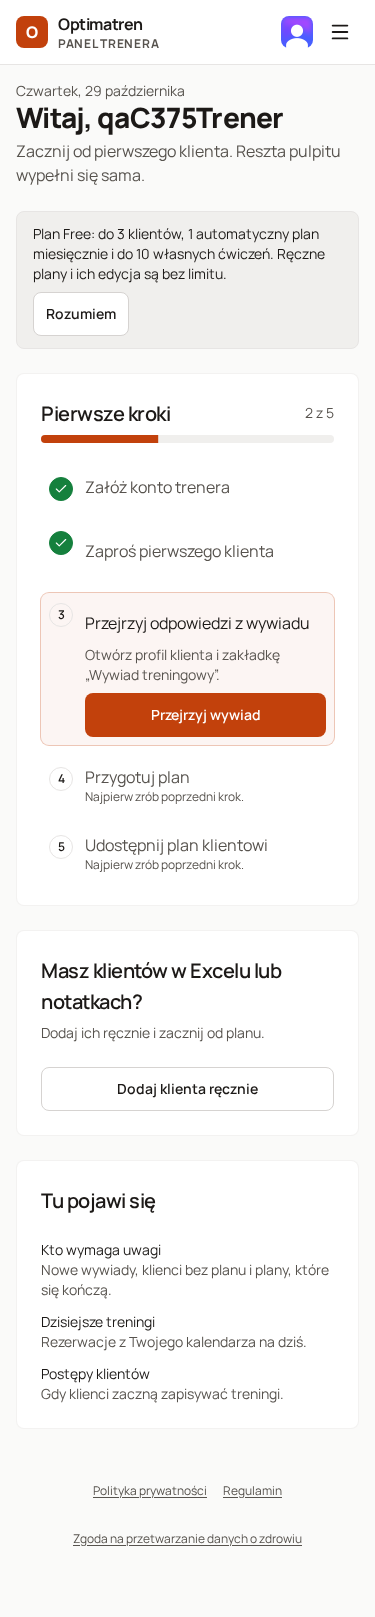
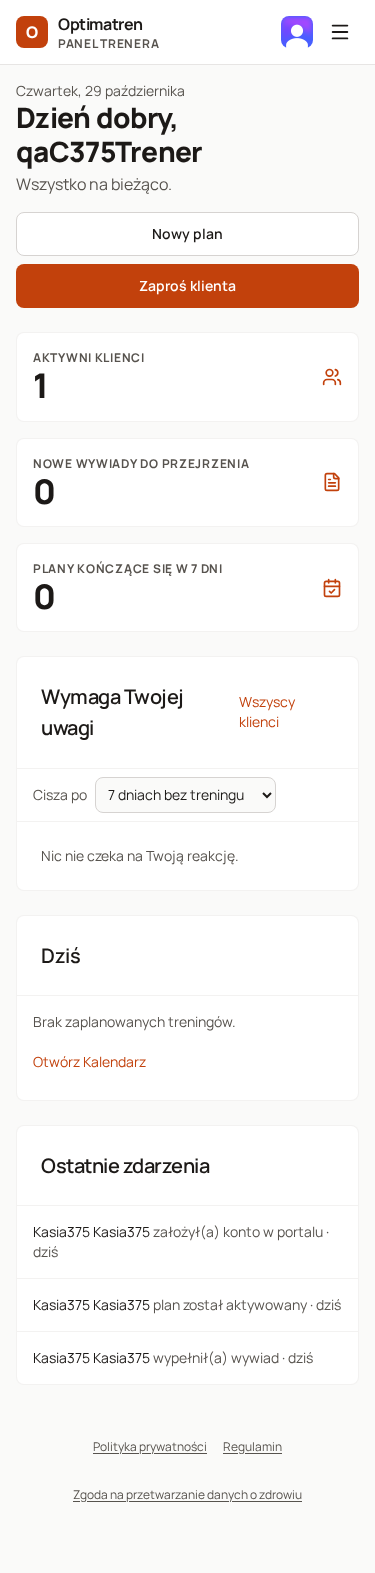
Pomiar pierwszych minut po zmianach (przed → po) i zrzuty N-*

diff --git a/docs/PIERWSZE-MINUTY.md b/docs/PIERWSZE-MINUTY.md
@@ -109,3 +109,16 @@ Zmian przebiegu (kolejność ekranów, kreator, zaproszenia, limity, rejestracja
 - Prawdziwa rejestracja Clerk (anty-bot w trybie bez głowy) — kroki oszacowane.
 - Wysyłka e-maili z zaproszeniami (QA bez poczty) — tylko wariant „link do skopiowania”.
 - Ścieżka C przy 1440 px: formularz wywiadu zmierzony, formularz „Nowy klient” tylko zrzut (konto testowe wyczerpało limit 3 klientów planu Free — sama ta blokada to przeszkoda 3).
+
+## Pomiar po zmianach (29.10.2026, po poprawkach B1–B7, C1–C4, D1–D2)
+
+Ten sam sposób pomiaru (Playwright 375 i 1440 px, osobna baza QA, konta Clerk dev, nowi trenerzy na planie Free); wyniki 375 i 1440 px są identyczne. Zrzuty: `docs/screens/pierwsze-minuty/N-*`. Pomiar wykrył też poważną usterkę po scaleniu `feature/solo-ekrany` (podgląd Solo psuł `fetch` w całym portalu) — naprawioną tego samego dnia (`docs/DO-DECYZJI.md`, „PILNE”).
+
+| Ścieżka | Przed (ekrany / kliknięcia / pola) | Po (ekrany / kliknięcia / pola) | Co się zmieniło |
+|---|---|---|---|
+| **Nowe konto trenera → dostęp** | ślepy zaułek („Napisz do nas”) | **3 / 2 / 0** („Poproś o dostęp trenera” → „Wyślij wniosek” → „Wniosek wysłany…”) | B1; po akceptacji administratora (imię i e-mail we wniosku, B3) trener wchodzi do panelu |
+| **A. Zaproszenie → aktywny plan + link dla klienta** | 16 / 14 / 1 (link do portalu osobno: ok. +2 kliknięcia) | **15 / 13 / 1** (link w oknie po aktywacji) | C2: po zapisie od razu podgląd z „Aktywuj teraz”; B5: okno z linkiem; krok „Otwórz plan” → „Edytuj” znika |
+| **B. Klient: wywiad → pierwszy skończony trening** | 48 / 55 / 16 | **44 / 49 / 14** (wywiad 26 → 22 ekrany, 35 → 29 kliknięć, 15 → 13 pól; trening bez zmian: 20 / 20 / 1) | C3: pominięte preferowane ćwiczenia, partie priorytetowe, drugi ekran o cardio (19 pytań zamiast 22); „Wolę nie podawać” przy wzroście i wadze |
+| **C. Trener wpisuje wywiad klientowi bez telefonu** | 8 / 20 / 5 po poprawce z nocy (przed nią ślepy zaułek) | **8 / 20 / 5** | bez zmian (formularz trenera ma 37 pól — propozycja 10 „na później”) |
+
+Zmiany, których nie widać w tych liczbach: ćwiczenia izometryczne (plank itp.) mają w planie czas, a w portalu odliczanie z potwierdzeniem jednym kliknięciem (C1); seria w treningu ma powtórzenia z planu i ciężar z poprzedniego treningu wpisane z góry (C4); logowanie panelu jest po polsku (B2); „Pierwsze kroki” prowadzą jednym następnym krokiem (B6); klient po wywiadzie widzi, co dalej (B7).

diff --git a/docs/POSTEP-GCP.md b/docs/POSTEP-GCP.md
@@ -408,3 +408,6 @@
 
 ## 29.10.2026 — poprawka krytyczna: podgląd Solo psuł `fetch` w całym portalu (gałąź `fix/solo-preview-fetch`)
 - Przyczyna i skutek: patrz `docs/DO-DECYZJI.md` (PILNE). Poprawka + test źródłowy; portal 277 testów OK, typecheck OK. Portal działa z drzewa roboczego (Vite), więc po scaleniu naprawia się od razu.
+
+## 29.10.2026 — ponowny pomiar „pierwszych minut” (po B/C/D)
+- Trener: dostęp 3 ekrany / 2 kliknięcia (przed: ślepy zaułek); zaproszenie → aktywny plan + link 16/14 → 15/13. Klient: wywiad → trening 48/55 → 44/49 (wywiad 26/35/15 → 22/29/13). Wywiad trenera 8/20/5 bez zmian. Pomiar znalazł i pozwolił naprawić usterkę podglądu Solo (`fix/solo-preview-fetch`). Tabela: `docs/PIERWSZE-MINUTY.md`.
